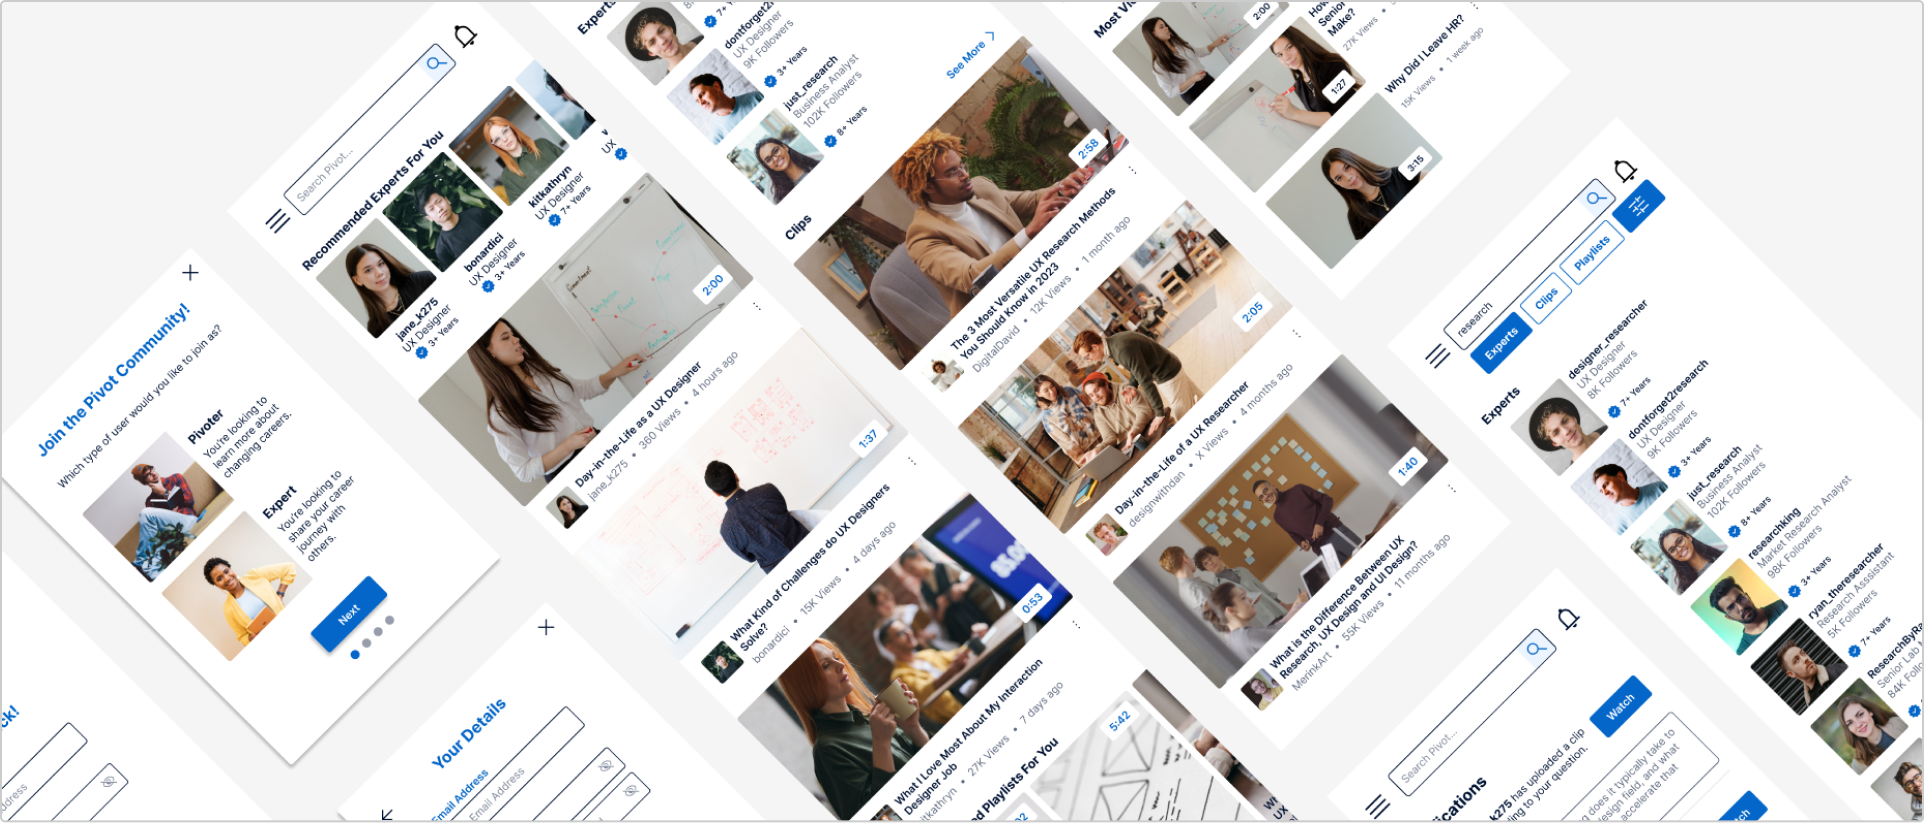
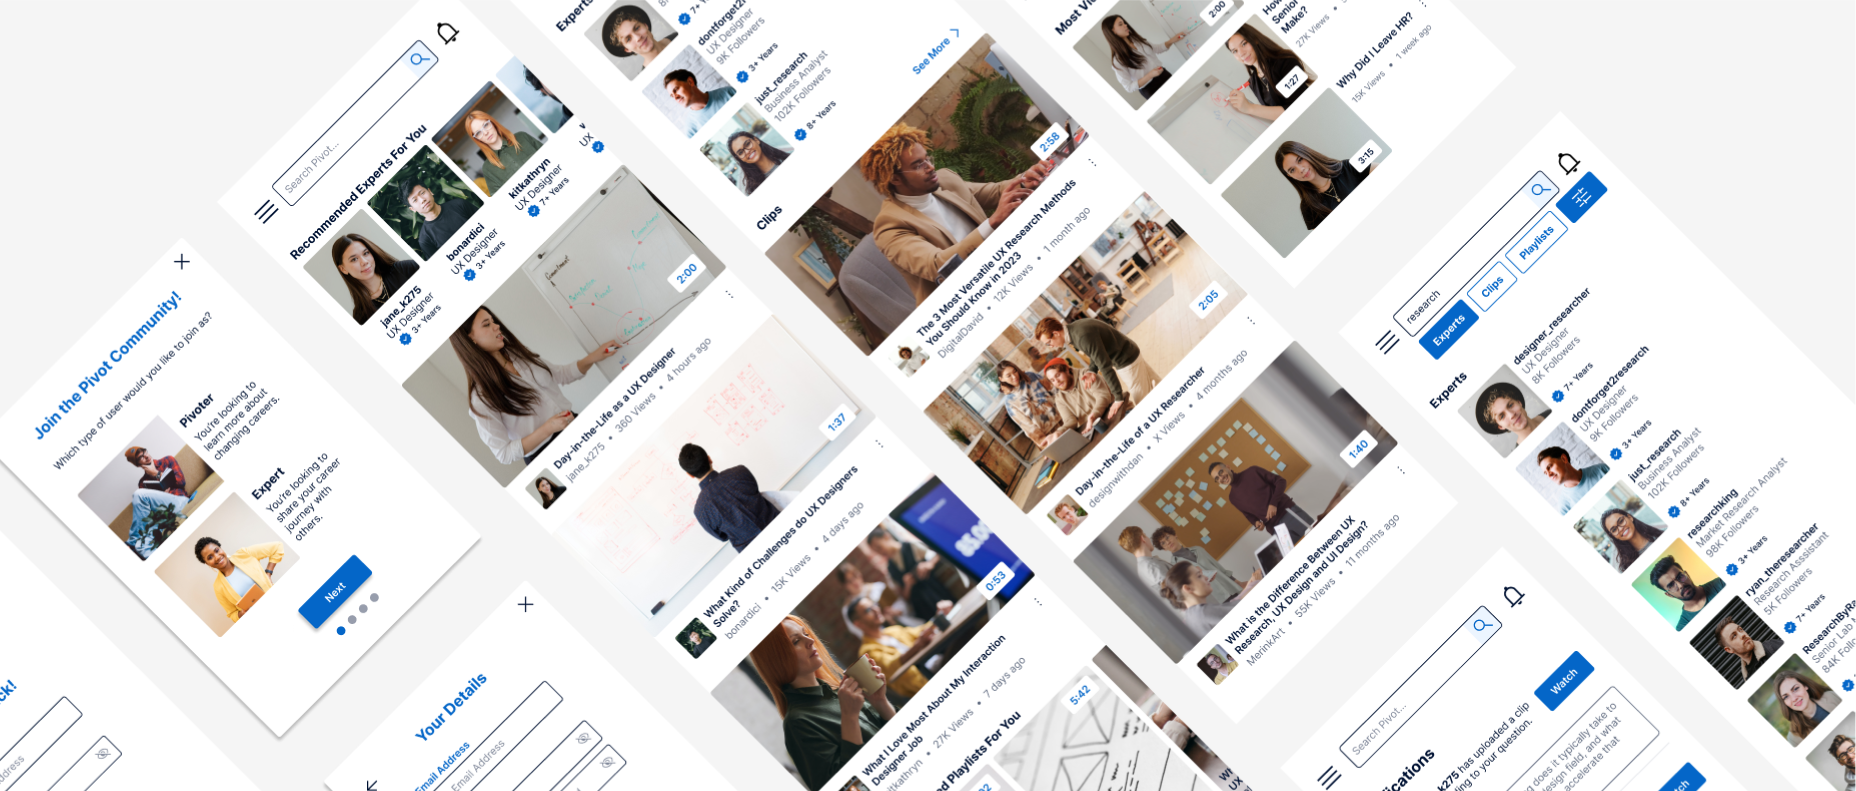
Fixed Margin Collapse

diff --git a/rippleandsurge.html b/rippleandsurge.html
@@ -44,7 +44,7 @@
         <div class="project-header">
             <h1><strong>Ripple and Surge</strong></h1>
             <h3>Elevating user trust with a polished web presence</h3>
-            <img class="introduction-image" src="img/Pivot - Introduction Image.png">
+            <img class="introduction-image" src="img/Ripple and Surge - Introduction Image.png">
         </div>
 
         <div class="case-study-section">
@@ -73,6 +73,120 @@
                 <p>Figma, Photoshop</p>
             </div>
         </div>
+
+        <div class="case-study-section">
+            <div class="section-title">Getting the Ball Rolling</div>
+            <div class="line-divider"></div>
+            <div class="case-study-content">
+                <p> I met with the Owner and Social Media Manager of Ripple and Surge to understand the scope of the
+                    website redesign and the brand's
+                    identity. This helped me establish a creative direction that would resonate with their
+                    target audience and a checkpoint cadence to keep the company in the loop on my progress.
+                </p>
+            </div>
+        </div>
+
+        <div class="case-study-section">
+            <div class="section-title">Forming a Game Plan</div>
+            <div class="line-divider"></div>
+            <div class="case-study-content section-margin">
+                <p>I then audited the existing site to identify and prioritize improvements. Then, I conducted moderated
+                    usability studies with individuals who matched the company’s key demographic. From my findings, I
+                    uncovered the following pain points:</p>
+            </div>
+            <div class="section-subtitle">Low Visual Appeal</div>
+            <div class="line-divider"></div>
+            <p>A lack of adherence to visual design principles and a failure to employ best practices for responsive
+                design resulted in low content readability and findability.</p>
+        </div>
+
+        <img src="img/Ripple and Surge - Visually Chaotic.png" class="case-study-image">
+
+        <div class="case-study-section">
+            <div class="section-subtitle">Unintuitive Booking Flow</div>
+            <div class="line-divider"></div>
+            <div class="case-study-content">
+                <p>Users found the website’s navigation to be confusing and frustrating. This was due to a mismatch
+                    between their mental models and the site’s navigation structure.</p>
+            </div>
+        </div>
+
+        <img src="img/Ripple and Surge - Unintuitive Booking Flow.png" class="case-study-image">
+
+        <div class="case-study-section">
+            <div class="section-subtitle">User Distrust</div>
+            <div class="line-divider"></div>
+            <div class="case-study-content">
+                <p>Users were reluctant to engage with Ripple and Surge as they felt there was a lack of professionalism
+                    and brand consistency across platforms. Some questioned whether they were even interacting with the
+                    same company they saw on Instagram.</p>
+            </div>
+        </div>
+
+        <div class="case-study-section">
+            <div class="section-title">Sizing Up the Competition</div>
+            <div class="line-divider"></div>
+            <div class="case-study-content">
+                <p>To refine my perspective on design trends and incorporate industry best practices, I audited
+                    competitors’ sites. My key takeaways to incorporate were: </p>
+                <div class="accent-circle-container">
+                    <div class="accent-circle">1</div>
+                    <div class="accent-circle-text-container">
+                        Clear labels and headers to improve discoverability of content
+                    </div>
+                </div>
+                <div class="accent-circle-container">
+                    <div class="accent-circle">2</div>
+                    <div class="accent-circle-text-container">
+                        Engaging visuals that reinforced the brand’s identity and highlighted content</div>
+                </div>
+                <div class="accent-circle-container">
+                    <div class="accent-circle">3</div>
+                    <div class="accent-circle-text-container">
+                        Abundant social proof (i.e. before/after pictures, testimonials, reviews, press release links
+                        etc.) </div>
+                </div>
+            </div>
+        </div>
+
+        <div class="case-study-section">
+            <div class="section-title">Down to the Wire</div>
+            <div class="line-divider"></div>
+            <div class="case-study-content">
+                <p>I began the redesign process by sketching to visualize the new information structure for the desktop
+                    site. As part of my goal to improve conversion rates, I also explored alternative methods for users
+                    to book consultation calls.</p>
+
+                <p>After translating my sketches to digital wireframes, I solicited feedback from Ripple and Surge.
+                </p>
+            </div>
+        </div>
+
+        <div class="case-study-section">
+            <div class="section-title">Core Features</div>
+            <div class="line-divider"></div>
+            <div class="case-study-content section-margin">
+                <p>After a series of revisions, I handed off the final design files to Ripple and Surge for development.
+                    Below are the feature highlights of the new site.</p>
+            </div>
+            <div class="section-subtitle">Streamlined Booking Process</div>
+            <div class="line-divider"></div>
+            <p>Overhauling your entire lifestyle is no small feat, so I aimed to make the first step the simplest. I
+                approached the revision of the booking experience in 3 ways:</p>
+        </div>
+
+        <img src="img/Ripple and Surge - Streamlined Booking Process.png" class="case-study-image">
+
+        <div class="case-study-section">
+            <div class="section-subtitle">Boosting User Confidence</div>
+            <div class="line-divider"></div>
+            <div class="case-study-content">
+                <p>Users found the website’s navigation to be confusing and frustrating. This was due to a mismatch
+                    between their mental models and the site’s navigation structure.</p>
+            </div>
+        </div>
+
+
     </div>
 
 

diff --git a/styles.css b/styles.css
@@ -351,7 +351,8 @@ body {
   flex-direction: column;
   align-items: center;
   gap: 2rem;
-  margin: 4rem;
+  margin-left: 4rem;
+  margin-right: 4rem;
 }
 
 /* Container for Thumbnail Text and Image */
@@ -447,7 +448,7 @@ body {
 
 footer {
   display: flex;
-  margin: 8rem 6rem 3rem 6rem;
+  margin: 6rem 6rem 3rem 6rem;
   text-align: center;
   justify-content: center;
 }
@@ -461,16 +462,16 @@ footer {
   align-items: flex-start;
   margin: auto;
   max-width: 1150px;
+  margin-bottom: 2rem;
 }
 
 .introduction-image {
   width: 100%;
   height: auto;
-  margin-top: 2rem;
-  margin-bottom: 1rem;
-  margin-left: auto;
-  margin-right: auto;
+  margin: 2rem auto;
   display: block;
+  border: 2px solid #B4B4B4;
+  border-radius: 3px;
 }
 
 /* Project Text Formatting*/
@@ -481,7 +482,9 @@ footer {
   column-gap: 1rem;
   justify-content: center;
   align-items: start;
-  margin: 4rem 2rem;
+  padding: 2rem 0rem;
+  margin-left: 2rem;
+  margin-right: 2rem;
 }
 
 .section-title {
@@ -532,6 +535,8 @@ footer {
   cursor: pointer;
 }
 
+/* Pivot */ 
+
 #pivot h1,
 #pivot .section-title {
   color: #0466C8;
@@ -551,11 +556,12 @@ footer {
   color: #0466C8;
 }
 
+/* Ripple and Surge */
+
 #ripple-and-surge h1, 
 #ripple-and-surge .section-title {
-  color: #804B28;
+  color: #A0653B;
 }
-
 
 /* Images and Videos */
 
@@ -565,6 +571,12 @@ footer {
   display: block;
   margin: auto;
   max-width: 800px;
+  border: 2px solid #B4B4B4;
+  border-radius: 3px;
+}
+
+.bottom-media-padding {
+  margin-bottom: 2rem;
 }
 
 .accent-circle-container {
@@ -581,11 +593,18 @@ footer {
   width: 50px;
   height: 50px;
   border-radius: 50%;
-  background-color: #0466C8;
   color: #FFFFFF;
   font-size: 1rem;
   font-weight: 700;
   margin-right: 1.333rem;
+}
+
+#pivot .accent-circle {
+  background-color: #0466C8;
+}
+
+#ripple-and-surge .accent-circle {
+  background-color: #A0653B;
 }
 
 .accent-circle-text-container {
@@ -595,6 +614,7 @@ footer {
 .case-study-video {
   width: 100%;
   height: auto;
+  padding-bottom: 2rem;
 }
 
 
@@ -822,6 +842,7 @@ footer {
   .project-header {
     max-width: 544px;
     margin: 0rem 2rem;
+    padding-bottom: 2rem;
   }
 
   .introduction-image {
@@ -835,11 +856,12 @@ footer {
     flex-direction: column;
     margin-left: 2rem;
     margin-right: 2rem;
+    padding-left: 0;
+    padding-right: 0;
   }
 
   .case-study-image {
-    padding-left: 2rem;
-    padding-right: 2rem;
+    width: calc(100% - 4rem);
   }
 
   .section-title {
@@ -1035,11 +1057,12 @@ footer {
   .project-header {
     margin: 0rem 3rem;
     max-width: 1174px;
+    padding-bottom: 2rem;
   }
 
   .case-study-section {
-    grid-template-columns: 85px 2px minmax(386px, 500px);
-    margin: 4rem 3rem;
+    grid-template-columns: 124px 2px minmax(345px, 500px);
+    padding: 2rem 0;
   }
 
   .section-title {
@@ -1051,7 +1074,6 @@ footer {
   }
 
   .case-study-image {
-    padding-left: 2rem;
-    padding-right: 2rem;
+    width: calc(100% - 4rem);
   }
 }

diff --git a/pivot.html b/pivot.html
@@ -114,6 +114,7 @@
         <br>
         <img src="img/Pivot - Journey Map.png" class="case-study-image">
 
+
         <div class="case-study-section">
             <div class="section-title">Defining A Solution</div>
             <div class="line-divider"></div>
@@ -122,7 +123,6 @@
                     the greatest impact on alleviating user frustrations.</p>
 
                 <p>When conceptualizing my solution, I turned to 3 critical research insights:</p>
-                <br>
                 <div class="accent-circle-container">
                     <div class="accent-circle">1</div>
                     <div class="accent-circle-text-container">
@@ -148,7 +148,7 @@
                         for
                         a person to confidently commit to a career change. </div>
                 </div>
-                <br><br>
+                <br>
                 <p>Based on these findings, I knew that my solution should ultimately:</p>
                 <p><span class="accent-text">Centralize Content.</span> The app should consolidate content from credible
                     career change experts into a single location.</p>
